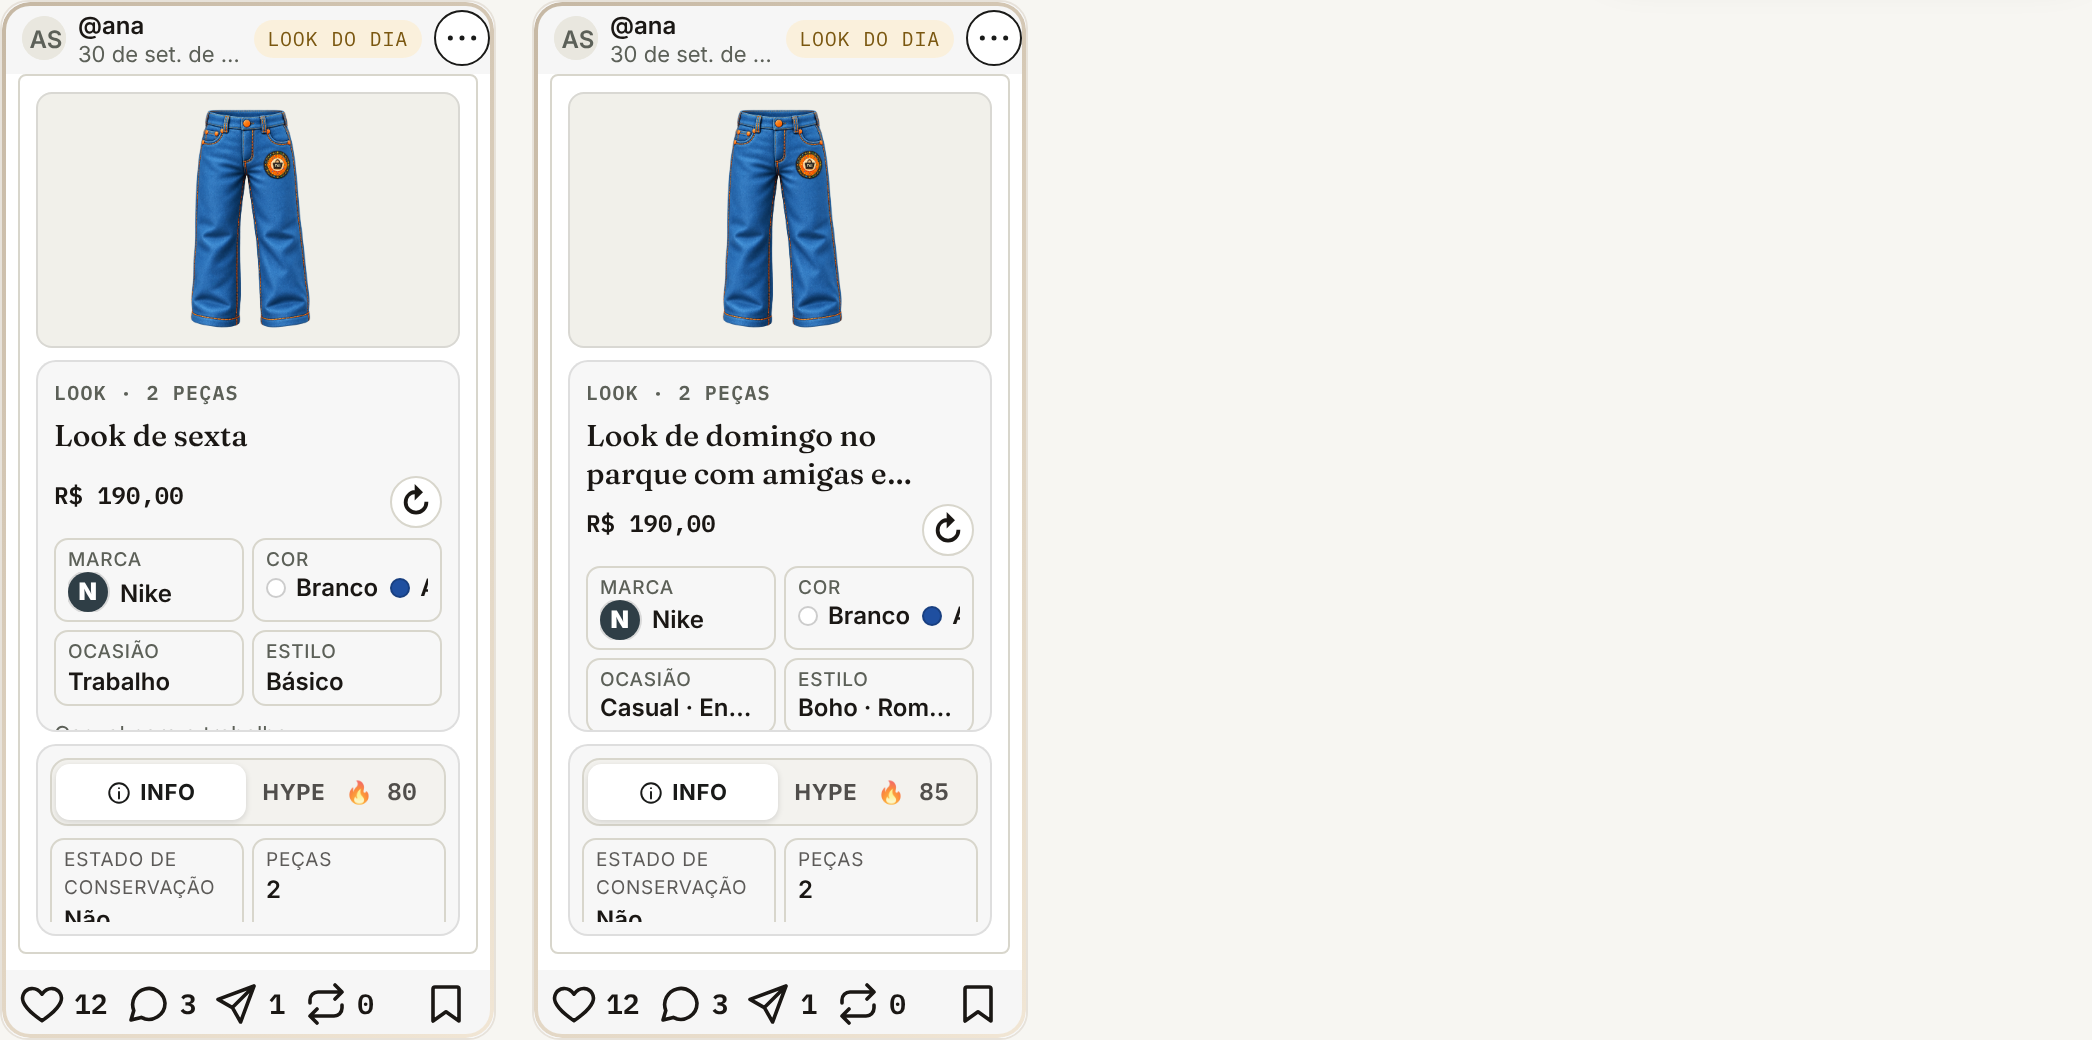
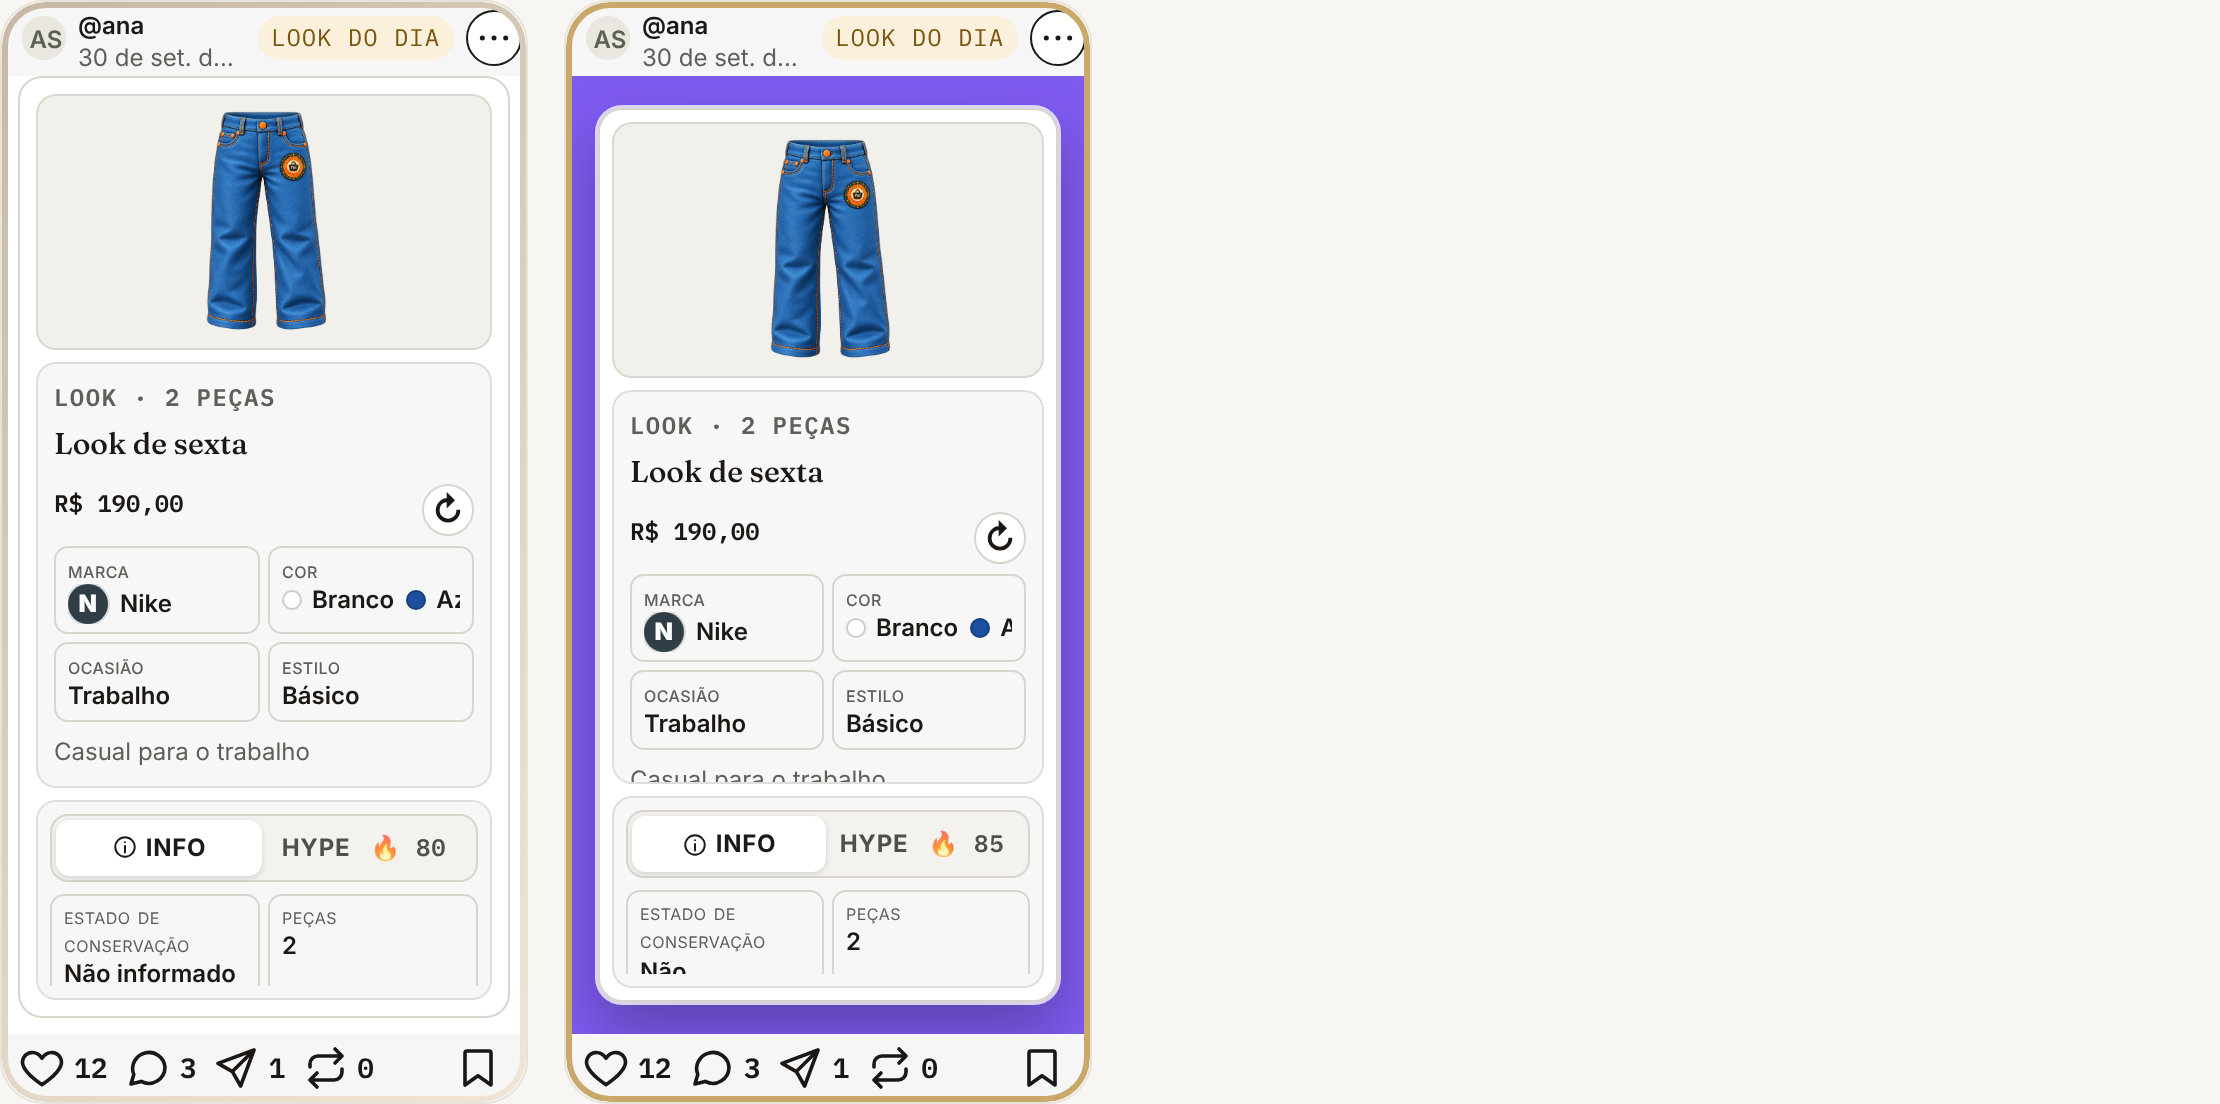
Card social: cantos arredondados e moldura mais espessa para a arte
- Raio externo de 22 px (container 12 px, foto e janelas 10 px).
- Faixa da arte entre a borda e o container fixa em 16 px, para a arte do
  criador aparecer inteira nas quatro laterais; linha da borda com 3 px.
- Card passa a 264 × 552 px para manter a área de conteúdo.

Claude-Session: https://claude.ai/code/session_01Ro1VboBB1y3fVc4NwvWJVX

Changed region(s): [[0.0, 0.0, 0.4971, 1.0]]

diff --git a/app/(site)/_styles/29-card-compacto-camadas.css b/app/(site)/_styles/29-card-compacto-camadas.css
@@ -6,13 +6,17 @@
    3 fotografia        `.pc-media` · `.c-photo` — poço próprio, altura fixa, a peça inteira (contain)
    4 janelas de dados  janela 1 `.pc-window.is-identity` · `.c-titleblock` (identidade e moda)
                        janela 2 `.pc-panels` (Info | Hype, com 🔥 e score no rótulo da aba Hype)
-   Antes: post de 470 px de largura e 870–978 px de altura (variava com o conteúdo). Agora: 248 × 520 px fixos
-   (≈ 53 % × 55 %); a foto cai de ~34 % para ~25 % da altura do card e as duas janelas passam de ~51 % para ~62 %
+   Antes: post de 470 px de largura e 870–978 px de altura (variava com o conteúdo). Agora: 264 × 552 px fixos
+   (≈ 56 % × 58 %), cantos de 22 px e moldura de 16 px para a arte do criador aparecer inteira; a foto cai de ~34 % para ~25 % da altura do card e as duas janelas passam de ~51 % para ~62 %
    do container (foto ↓ ≈ 30 %, dados ↑ ≈ 40 % na proporção). Conteúdo maior que a janela rola dentro dela — o card nunca muda de tamanho.
    ===================================================================================================================== */
 :root {
-  --fc-w: 248px;
-  --fc-h: 520px;
+  --fc-w: 264px;
+  --fc-h: 552px;
+  /* moldura: faixa da arte entre a borda externa e o container, raio externo e espessura da linha da borda */
+  --fc-band: 16px;
+  --fc-r: 22px;
+  --fc-border: 3px;
   --fc-photo-h: 128px;
   --fc-gap: 6px;
   --fc-window-r: 10px;
@@ -26,7 +30,7 @@
   width: min(var(--fc-w), 100%); height: var(--fc-h); flex: none; justify-self: center;
 }
 .fcard-face > .fai-card:is(.piece-card.is-social, .scheme-card-social) { width: 100%; height: 100%; }
-.fcard:has(.piece-card.is-social, .scheme-card-social) .fcard-face.is-back { overflow: auto; border-radius: var(--card-radius, 10px); }
+.fcard:has(.piece-card.is-social, .scheme-card-social) .fcard-face.is-back { overflow: auto; border-radius: var(--fc-r); }
 
 /* ---------- cabeçalho e ações compactos ---------- */
 :is(.piece-card.is-social, .scheme-card-social) .c-header { min-height: 36px; padding: 2px 2px 2px 10px; gap: 6px; }
@@ -46,10 +50,13 @@
 :is(.piece-card.is-social, .scheme-card-social) .c-extra { padding: 4px 8px; font-size: 12px; flex: none; }
 
 /* ---------- peça: camadas 2 a 4 ---------- */
-.piece-card.is-social.pc { --pc-x: 10px; --pc-r-in: 8px; }
+.fai-card:is(.piece-card.is-social, .scheme-card-social) { border-radius: var(--fc-r); }
+:is(.piece-card.is-social, .scheme-card-social) > .card-border { padding: var(--fc-border); }
+.fcard:has(.piece-card.is-social, .scheme-card-social) .fcard-face.is-back > * { border-radius: var(--fc-r); }
+.piece-card.is-social.pc { --pc-x: var(--fc-band); --pc-r-out: var(--fc-r); --pc-r-in: 12px; }
 .piece-card.is-social .pc-frame, .piece-card.is-social .pc-content { min-height: 0; }
 .piece-card.is-social .pc-media {
-  flex: none; height: var(--fc-photo-h); aspect-ratio: auto !important; margin: 0 8px; border-radius: 8px;
+  flex: none; height: var(--fc-photo-h); aspect-ratio: auto !important; margin: 0 8px; border-radius: 10px;
   box-shadow: inset 0 0 0 1px var(--fc-window-line);
 }
 .piece-card.is-social .pc-media img.is-contain { padding: 6%; }
@@ -60,13 +67,15 @@
 /* ---------- look: camadas 2 a 4 ---------- */
 .scheme-card-social { display: flex; flex-direction: column; }
 .scheme-card-social > .scheme-stage { flex: 1; min-height: 0; display: flex; flex-direction: column; }
-.fai-card.scheme-card-social.has-art .scheme-stage { --aura-band: 10px; }
+.fai-card.scheme-card-social.has-art .scheme-stage { --aura-band: var(--fc-band); padding: var(--fc-band); }
+.scheme-card-social.has-art .scheme-container { margin: 0; border-radius: 12px; }
+.scheme-card-social .scheme-container { border-radius: 12px; }
 .scheme-card-social .scheme-container {
   flex: 1; min-height: 0; display: flex; flex-direction: column; gap: var(--fc-gap); padding: 8px; margin: 0 8px 8px;
 }
 .scheme-card-social:not(.has-art) .scheme-container { margin-top: 0; }
 .scheme-card-social .c-photo.is-look {
-  flex: none; height: var(--fc-photo-h); aspect-ratio: auto !important; border: 0; border-radius: 8px;
+  flex: none; height: var(--fc-photo-h); aspect-ratio: auto !important; border: 0; border-radius: 10px;
   box-shadow: inset 0 0 0 1px var(--fc-window-line);
 }
 .scheme-card-social .c-photo.is-look img { padding: 6px; }
